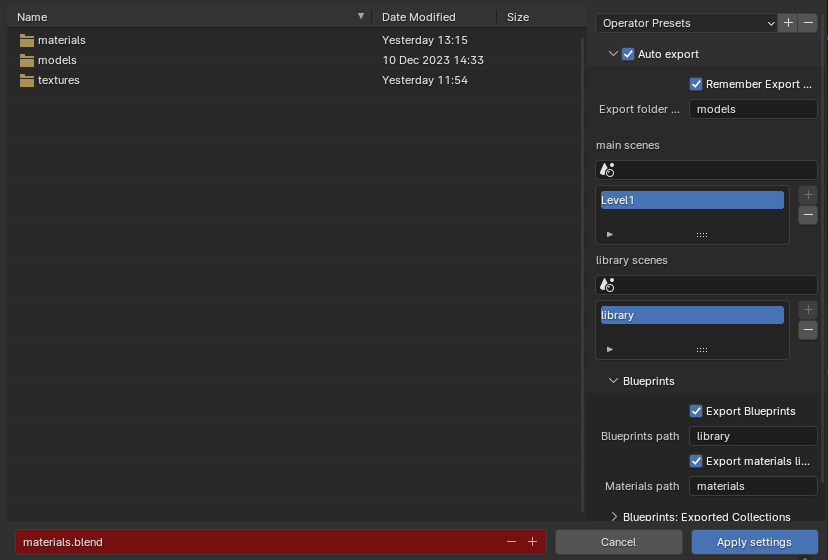
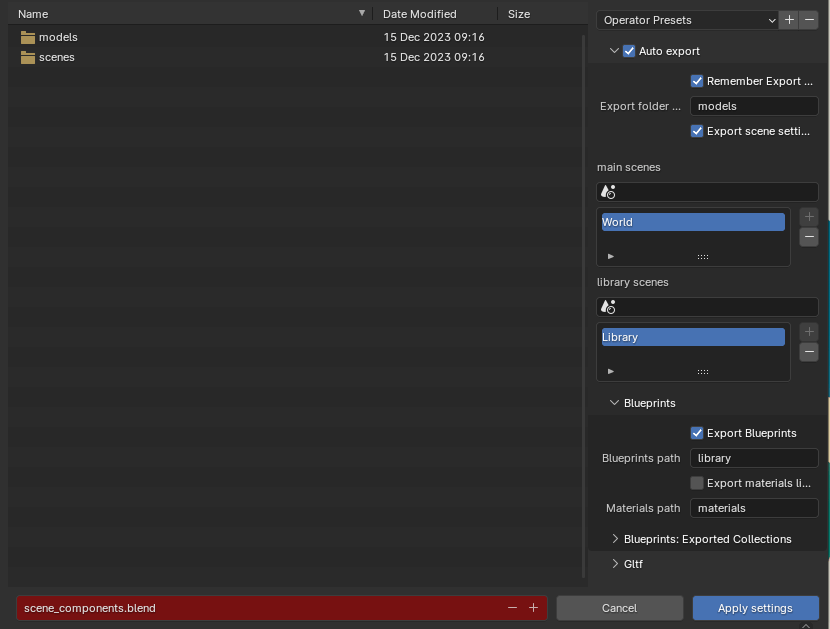
feat(tools/gltf_auto_export): added option to toggle scene level exports of params/ components  * updated docs

diff --git a/tools/gltf_auto_export/auto_export.py b/tools/gltf_auto_export/auto_export.py
@@ -48,8 +48,7 @@ def auto_export(changes_per_scene, changed_export_parameters):
                 print("error setting preferences from saved settings", error)
         bpy.context.window_manager['__gltf_auto_export_initialized'] = True
 
-    # inject/ update scene components
-    upsert_scene_components(bpy.context.scene, world = bpy.context.scene.world)
+
 
     # have the export parameters (not auto export, just gltf export) have changed: if yes (for example switch from glb to gltf, compression or not, animations or not etc), we need to re-export everything
     print ("changed_export_parameters", changed_export_parameters)
@@ -63,11 +62,17 @@ def auto_export(changes_per_scene, changed_export_parameters):
         export_output_folder = getattr(addon_prefs,"export_output_folder")
 
         export_materials_library = getattr(addon_prefs,"export_materials_library")
+        export_scene_settings = getattr(addon_prefs,"export_scene_settings")
+
 
         [main_scene_names, level_scenes, library_scene_names, library_scenes] = get_scenes(addon_prefs)
 
         print("main scenes", main_scene_names, "library_scenes", library_scene_names)
         print("export_output_folder", export_output_folder)
+
+        if export_scene_settings:
+            # inject/ update scene components
+            upsert_scene_components(bpy.context.scene, world = bpy.context.scene.world)
 
         # export everything everytime
         if export_blueprints:

diff --git a/tools/gltf_auto_export/preferences.py b/tools/gltf_auto_export/preferences.py
@@ -54,6 +54,13 @@ class AutoExportGltfAddonPreferences(AddonPreferences):
         description='The name of the library scene to auto export',
         default='Library'
     )
+    # scene components
+    export_scene_settings: BoolProperty(
+        name='Export scene settings',
+        description='Export scene settings ie AmbientLighting, Bloom, AO etc',
+        default=True
+    )
+
     # blueprint settings
     export_blueprints: BoolProperty(
         name='Export Blueprints',

diff --git a/tools/gltf_auto_export/ui/main.py b/tools/gltf_auto_export/ui/main.py
@@ -203,6 +203,7 @@ class GLTF_PT_auto_export_root(bpy.types.Panel):
         layout.active = operator.auto_export
         layout.prop(operator, 'will_save_settings')
         layout.prop(operator, "export_output_folder")
+        layout.prop(operator, "export_scene_settings")
 
         # scene selectors
         row = layout.row()

diff --git a/tools/gltf_auto_export/__init__.py b/tools/gltf_auto_export/__init__.py
@@ -1,7 +1,7 @@
 bl_info = {
     "name": "gltf_auto_export",
     "author": "kaosigh",
-    "version": (0, 6, 0),
+    "version": (0, 7, 0),
     "blender": (3, 4, 0),
     "location": "File > Import-Export",
     "description": "glTF/glb auto-export",

diff --git a/tools/gltf_auto_export/README.md b/tools/gltf_auto_export/README.md
@@ -44,6 +44,9 @@ This [Blender addon](./)
 
 
     - export folder: root folder to export models too
+    - export scene settings: exports "global"/scene settings like ambient color, bloom, ao, etc 
+        
+        This automatically generates additional components at the scene level 
     - pick your main (level) scenes and library scenes (see the chapter about Blueprints below)   
         - click in the scene picker & select your scene
 
